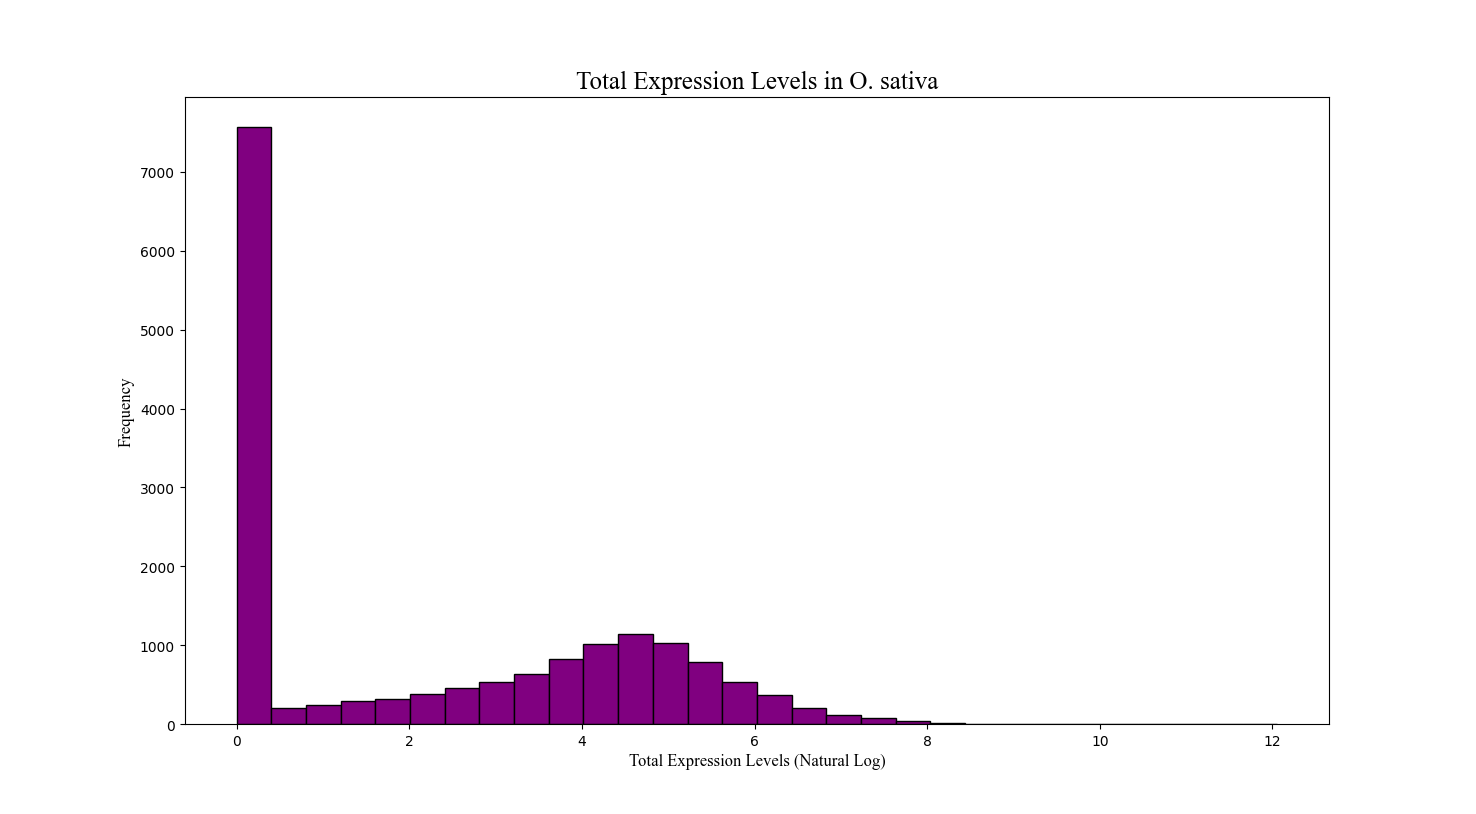
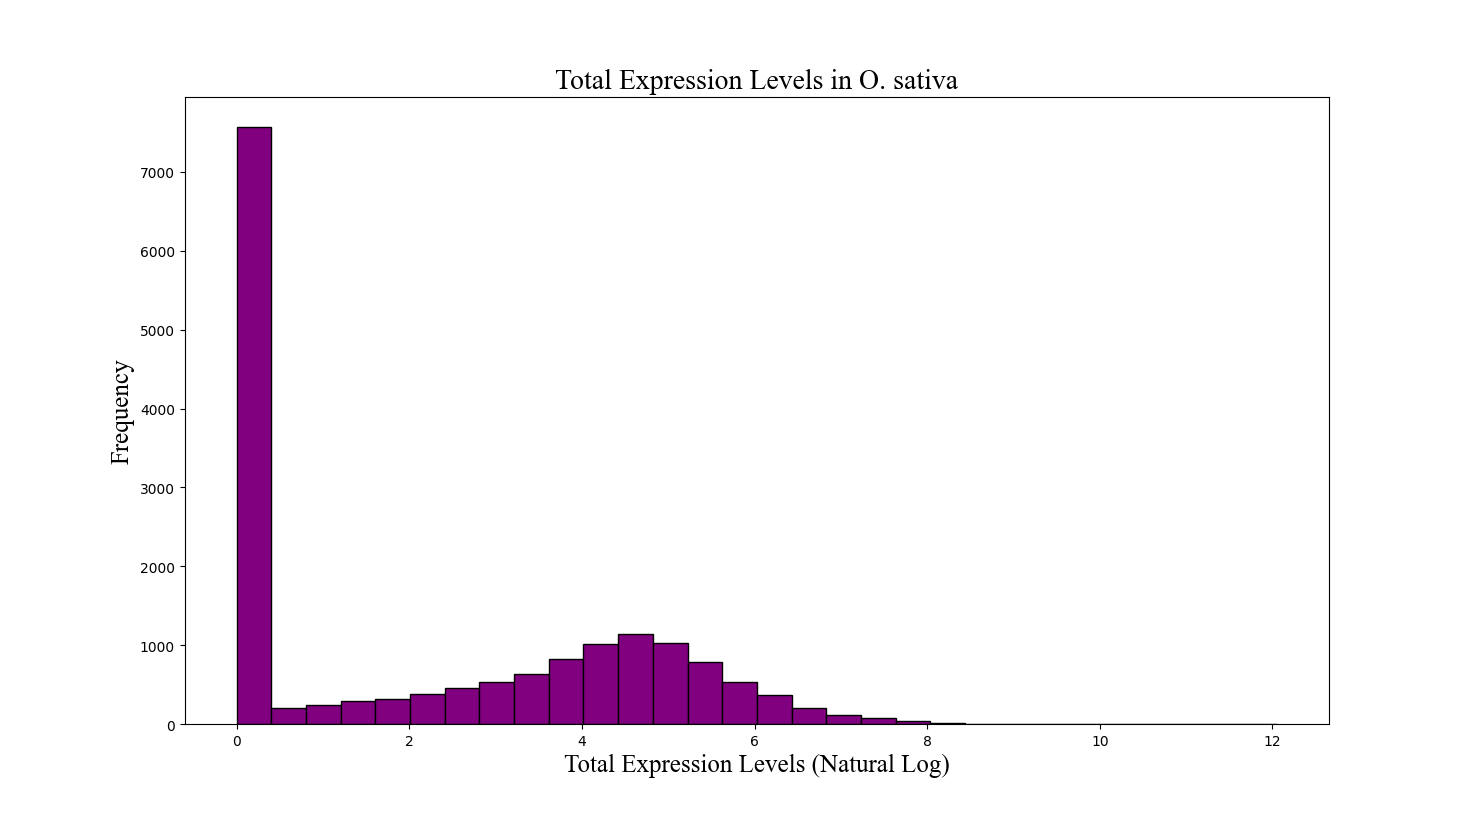
final

Changed region(s): [[0.374, 0.9214, 0.6545, 0.9521], [0.374, 0.0921, 0.6545, 0.1229], [0.0623, 0.4607, 0.0935, 0.5528]]

diff --git a/graphing.py b/graphing.py
@@ -6,9 +6,9 @@ import math
 imeter_scores = {}
 entropy_scores = {}
 tot_expression_levels = {}
-organism = "A. thaliana"
-entropy_file = 'at_entropy_scores.txt'
-intron_file = 'at_cutoff_intron_imeter_scores.txt'
+organism = "O. sativa"
+entropy_file = 'os_entropy_scores.txt'
+intron_file = 'os_cutoff_intron_imeter_scores.txt'
 
 def add_value_to_key(key, value, curr_dict):
     if key not in curr_dict:
@@ -63,23 +63,23 @@ plt.show()
 # Create a histogram for entropy values
 plt.figure(figsize=(10, 6))
 plt.hist(x_values, bins=30, color='blue', edgecolor='black')
-plt.title('Entropy Values in ' + organism, fontdict={'fontsize': 18, 'fontweight': 'normal', 'fontfamily': 'Times New Roman'})
-plt.xlabel('Entropy Values', fontdict={'fontsize': 12, 'fontweight': 'light', 'fontfamily': 'Times New Roman'})
-plt.ylabel('Frequency', fontdict={'fontsize': 12, 'fontweight': 'light', 'fontfamily': 'Times New Roman'})
+plt.title('Tissue Specificity in ' + organism, fontdict={'fontsize': 20, 'fontweight': 'normal', 'fontfamily': 'Times New Roman'})
+plt.xlabel('Entropy Values', fontdict={'fontsize': 18, 'fontweight': 'light', 'fontfamily': 'Times New Roman'})
+plt.ylabel('Frequency', fontdict={'fontsize': 18, 'fontweight': 'light', 'fontfamily': 'Times New Roman'})
 plt.show()
 
 # Create a histogram for IMEter scores
 plt.figure(figsize=(10, 6))
 plt.hist(y_values, bins=30, color='green', edgecolor='black')
-plt.title('IMEter Scores in ' + organism, fontdict={'fontsize': 18, 'fontweight': 'normal', 'fontfamily': 'Times New Roman'})
-plt.xlabel('IMEter Scores', fontdict={'fontsize': 12, 'fontweight': 'light', 'fontfamily': 'Times New Roman'})
-plt.ylabel('Frequency', fontdict={'fontsize': 12, 'fontweight': 'light', 'fontfamily': 'Times New Roman'})
+plt.title('IMEter Scores in ' + organism, fontdict={'fontsize': 20, 'fontweight': 'normal', 'fontfamily': 'Times New Roman'})
+plt.xlabel('IMEter Scores', fontdict={'fontsize': 18, 'fontweight': 'light', 'fontfamily': 'Times New Roman'})
+plt.ylabel('Frequency', fontdict={'fontsize': 18, 'fontweight': 'light', 'fontfamily': 'Times New Roman'})
 plt.show()
 
 # Create a histogram for total expression levels
 plt.figure(figsize=(10, 6))
 plt.hist(tot_expression_values, bins=30, color='purple', edgecolor='black')
-plt.title('Total Expression Levels in ' + organism, fontdict={'fontsize': 18, 'fontweight': 'normal', 'fontfamily': 'Times New Roman'})
-plt.xlabel('Total Expression Levels (Natural Log)', fontdict={'fontsize': 12, 'fontweight': 'light', 'fontfamily': 'Times New Roman'})
-plt.ylabel('Frequency', fontdict={'fontsize': 12, 'fontweight': 'light', 'fontfamily': 'Times New Roman'})
+plt.title('Total Expression Levels in ' + organism, fontdict={'fontsize': 20, 'fontweight': 'normal', 'fontfamily': 'Times New Roman'})
+plt.xlabel('Total Expression Levels (Natural Log)', fontdict={'fontsize': 18, 'fontweight': 'light', 'fontfamily': 'Times New Roman'})
+plt.ylabel('Frequency', fontdict={'fontsize': 18, 'fontweight': 'light', 'fontfamily': 'Times New Roman'})
 plt.show()
